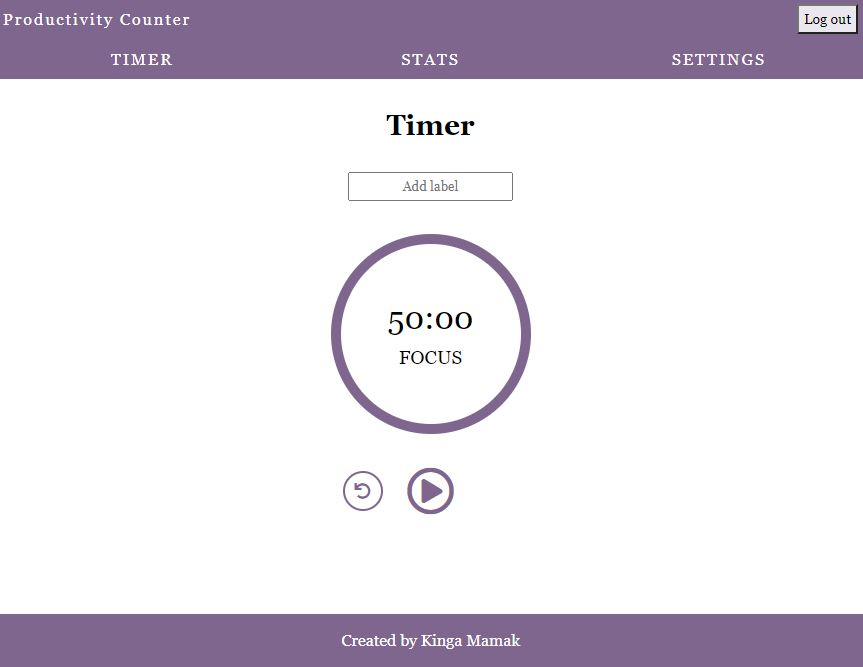
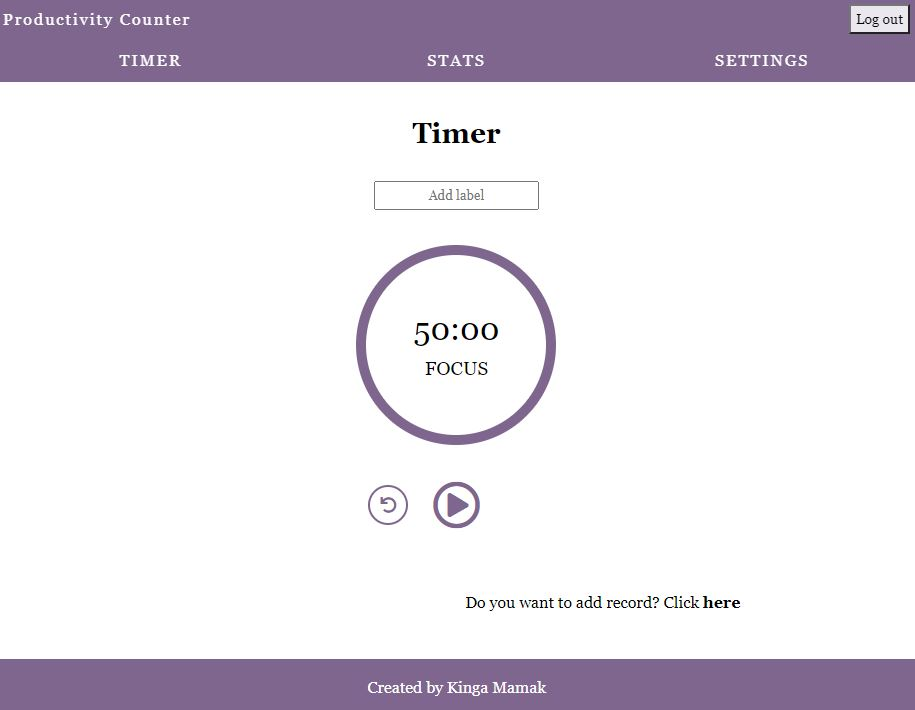
Update readme

diff --git a/README.md b/README.md
@@ -43,6 +43,7 @@ Use `npm run test` to run tests.
 
 - signing up ang logging in implemented with Firebase Authentiaction
 - timer section with countdown timer and possibility to add label
+- form to add record manually
 - saving sessions to Firebase Realtime Database for logged users
 - save sessions to local storage for not logged users
 - stats section for logged users which shows latest sessions
@@ -50,6 +51,7 @@ Use `npm run test` to run tests.
 
 To do:
 
+- reusable labels
 - charts in stats section
 - tests
 
